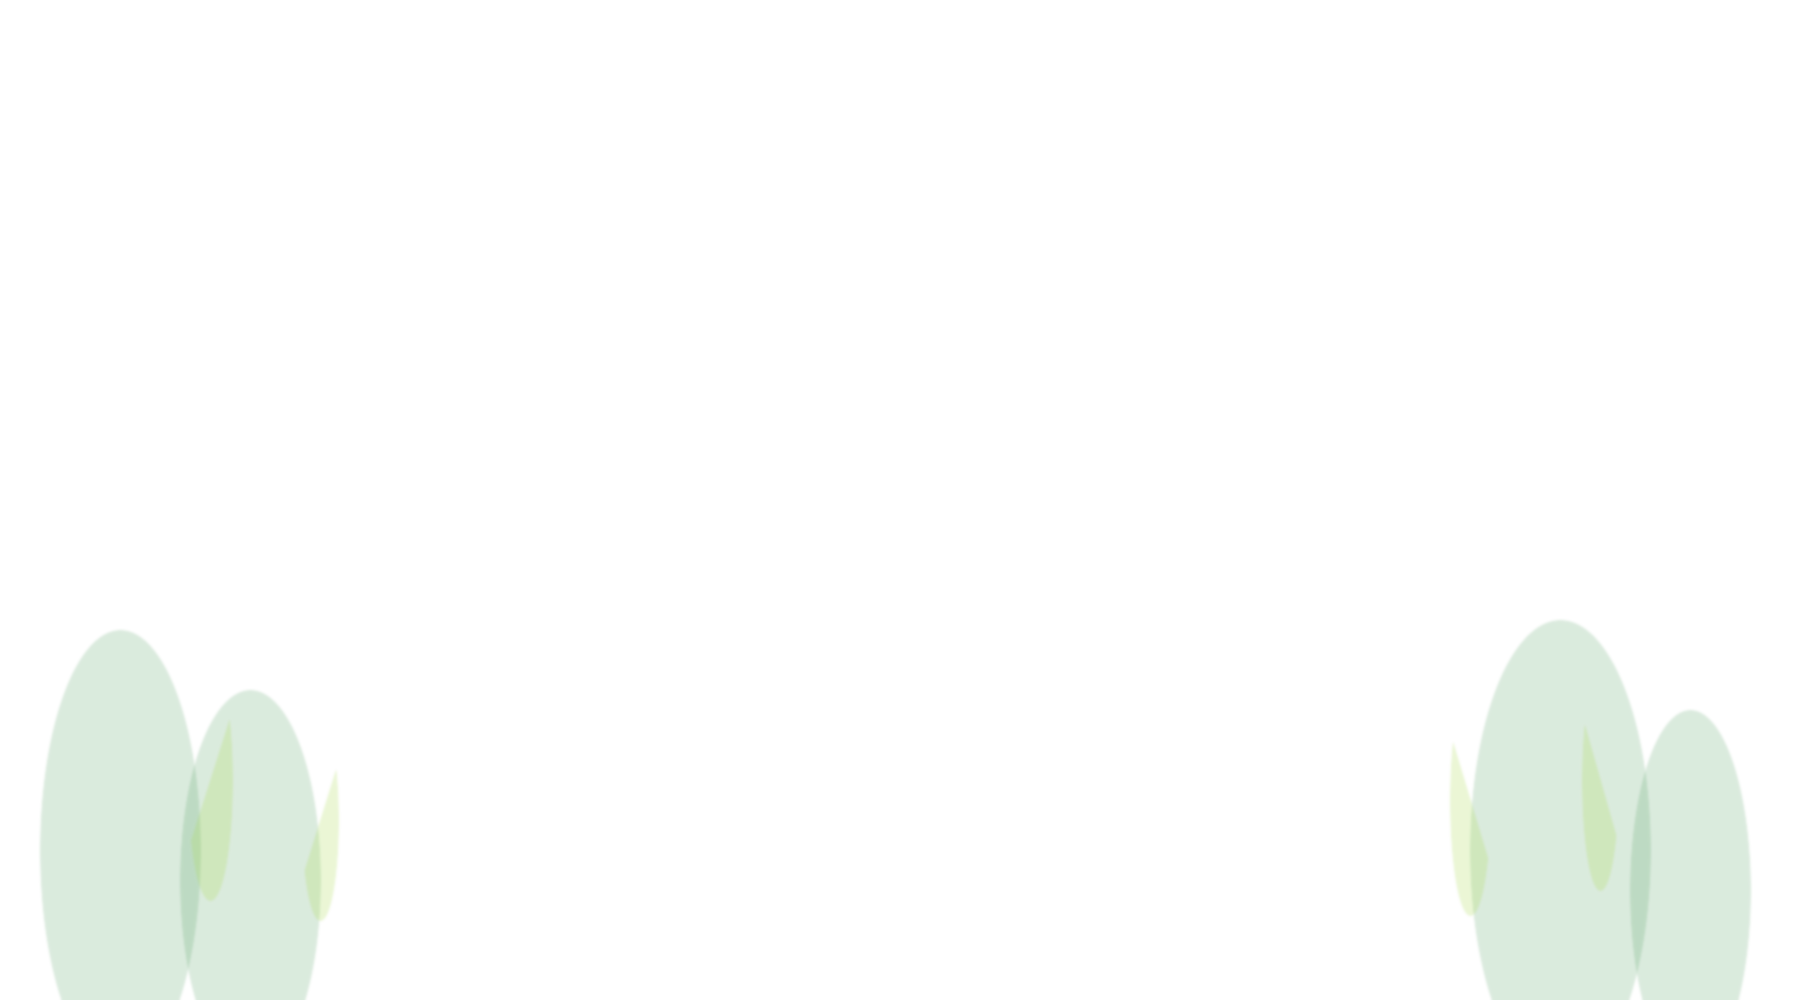
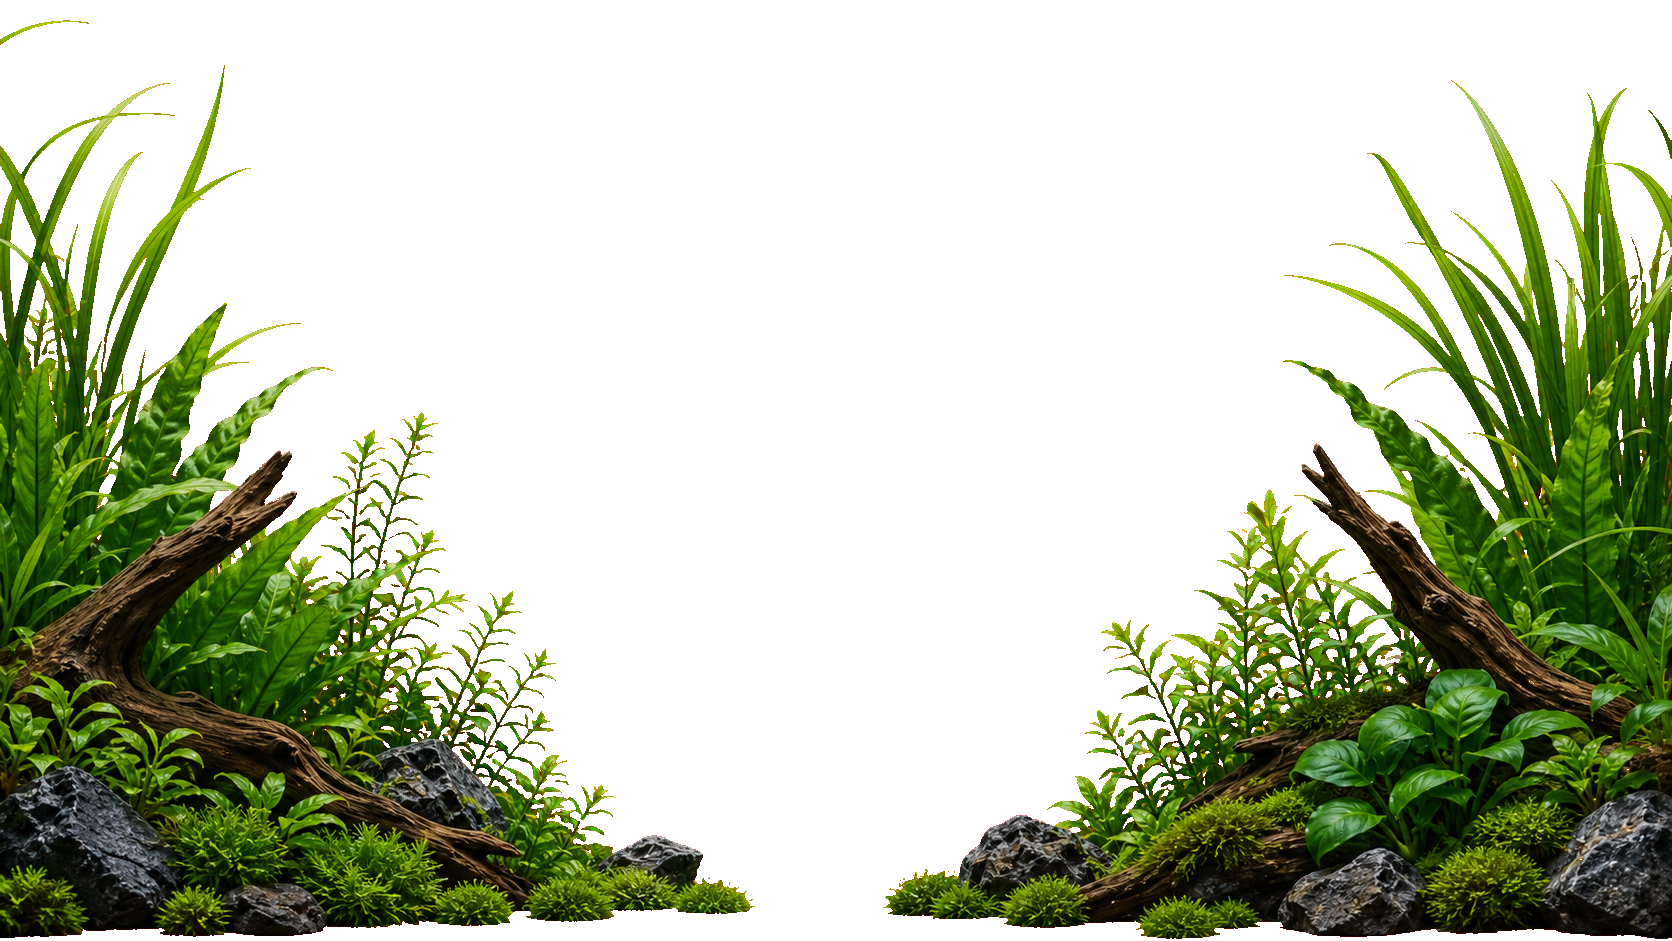
Use generated aquarium layer assets

diff --git a/src/render/AquariumCanvas.tsx b/src/render/AquariumCanvas.tsx
@@ -32,6 +32,7 @@ type FishSpriteRecord = {
   shadow: Graphics;
   fallback: Graphics;
   pectoralFins: Graphics;
+  tailFlutter: Graphics;
   loadedAnimationKey?: string;
   visualX?: number;
   visualY?: number;
@@ -259,6 +260,7 @@ export function AquariumCanvas({
         record.sprite.destroy();
         record.shadow.destroy();
         record.pectoralFins.destroy();
+        record.tailFlutter.destroy();
         record.fallback.destroy();
         fishSpritesRef.current.delete(id);
       }
@@ -288,6 +290,13 @@ export function AquariumCanvas({
           .fill({ color: 0xe8ffff, alpha: 0.18 })
           .ellipse(-6, -8, 5, 12)
           .fill({ color: 0xe8ffff, alpha: 0.12 });
+        const tailFlutter = new Graphics()
+          .moveTo(-34, 0)
+          .lineTo(-60, -18)
+          .lineTo(-52, 0)
+          .lineTo(-60, 18)
+          .closePath()
+          .fill({ color: 0xd8ffff, alpha: 0.16 });
         fallback
           .ellipse(0, 0, 44, 14)
           .fill({ color: fallbackFishColor(definition.id), alpha: 0.82 })
@@ -298,8 +307,8 @@ export function AquariumCanvas({
           .closePath()
           .fill({ color: fallbackFishColor(definition.id), alpha: 0.74 });
         sprite.anchor.set(0.5);
-        fishLayer.addChild(shadow, fallback, pectoralFins, sprite);
-        record = { sprite, shadow, fallback, pectoralFins };
+        fishLayer.addChild(shadow, fallback, tailFlutter, pectoralFins, sprite);
+        record = { sprite, shadow, fallback, pectoralFins, tailFlutter };
         fishSpritesRef.current.set(fishInstance.id, record);
       }
 
@@ -412,6 +421,15 @@ export function AquariumCanvas({
       record.pectoralFins.scale.set(smoothedDirectionScale * 0.78, record.visualScale * 0.78);
       record.pectoralFins.alpha =
         record.sprite.texture === Texture.EMPTY ? 0 : record.visualAlpha * tailPulse.finAlpha;
+      record.tailFlutter.x = record.visualX;
+      record.tailFlutter.y = record.visualY;
+      record.tailFlutter.rotation = record.visualRotation + tailPulse.tailFlutter;
+      record.tailFlutter.scale.set(
+        smoothedDirectionScale * 0.82,
+        record.visualScale * (0.72 + tailPulse.tailFan),
+      );
+      record.tailFlutter.alpha =
+        record.sprite.texture === Texture.EMPTY ? 0 : record.visualAlpha * tailPulse.tailAlpha;
       record.fallback.x = record.visualX;
       record.fallback.y = record.visualY;
       record.fallback.rotation = record.visualRotation;
@@ -430,6 +448,7 @@ export function AquariumCanvas({
       const sortKey = fishInstance.depth * 10000 + y;
       record.sprite.zIndex = sortKey + 1;
       record.pectoralFins.zIndex = sortKey + 0.8;
+      record.tailFlutter.zIndex = sortKey + 0.7;
       record.fallback.zIndex = sortKey + 1;
       record.shadow.zIndex = sortKey;
     }
@@ -599,10 +618,10 @@ function animateTankLayers(
 ) {
   const slowWave = Math.sin(nowMs / 2600);
   const fastWave = Math.sin(nowMs / 1500);
-  rearDecorLayer.x = slowWave * app.screen.width * 0.002;
-  rearDecorLayer.skew.x = slowWave * 0.004;
-  frontDecorLayer.x = fastWave * app.screen.width * 0.003;
-  frontDecorLayer.skew.x = fastWave * 0.006;
+  rearDecorLayer.x = slowWave * app.screen.width * 0.004;
+  rearDecorLayer.skew.x = slowWave * 0.008;
+  frontDecorLayer.x = fastWave * app.screen.width * 0.008;
+  frontDecorLayer.skew.x = fastWave * 0.014;
 
   const sheen = glassEffectsLayer.getChildByName("surface-sheen");
   if (sheen) {
@@ -696,7 +715,7 @@ async function ensureBubbleParticles(
   for (let i = 0; i < 44; i += 1) {
     const source = i % 3;
     const originXRatio = source === 0 ? 0.08 : source === 1 ? 0.19 : 0.91;
-    const radius = 1.3 + (i % 6) * 0.42;
+    const radius = 4.5 + (i % 6) * 1.8;
     const depth = ((i * 17) % 100) / 100;
     const sprite = new Sprite(texture);
     sprite.anchor.set(0.5);
@@ -736,8 +755,8 @@ function updateBubbleParticles(
     bubble.sprite.x = app.screen.width * bubble.originXRatio + sway * bubble.driftPx;
     bubble.sprite.y = app.screen.height * bubble.yRatio;
     bubble.sprite.rotation = sway * 0.18;
-    bubble.sprite.scale.set((bubble.radius / 28) * (0.72 + bubble.depth * 0.48));
-    bubble.sprite.alpha = Math.max(0, Math.min(0.76, 0.2 + bubble.yRatio * 0.42));
+    bubble.sprite.scale.set((bubble.radius / 28) * (0.82 + bubble.depth * 0.56));
+    bubble.sprite.alpha = Math.max(0, Math.min(0.68, 0.18 + bubble.yRatio * 0.36));
   }
 }
 
@@ -760,6 +779,9 @@ function getTailPulse(
   sideFlex: number;
   finFlutter: number;
   finAlpha: number;
+  tailFlutter: number;
+  tailFan: number;
+  tailAlpha: number;
 } {
   const speed = Math.hypot(fish.velocity.x, fish.velocity.y);
   const speedAmount = Math.min(1, speed / 12);
@@ -776,6 +798,9 @@ function getTailPulse(
     sideFlex: flutter * speedAmount * modeAmount * 0.018,
     finFlutter: flutter * speedAmount * 0.18,
     finAlpha: 0.26 + Math.abs(flutter) * 0.22,
+    tailFlutter: wave * speedAmount * modeAmount * 0.28,
+    tailFan: Math.abs(wave) * speedAmount * modeAmount * 0.45,
+    tailAlpha: 0.13 + Math.abs(wave) * speedAmount * modeAmount * 0.18,
   };
 }
 